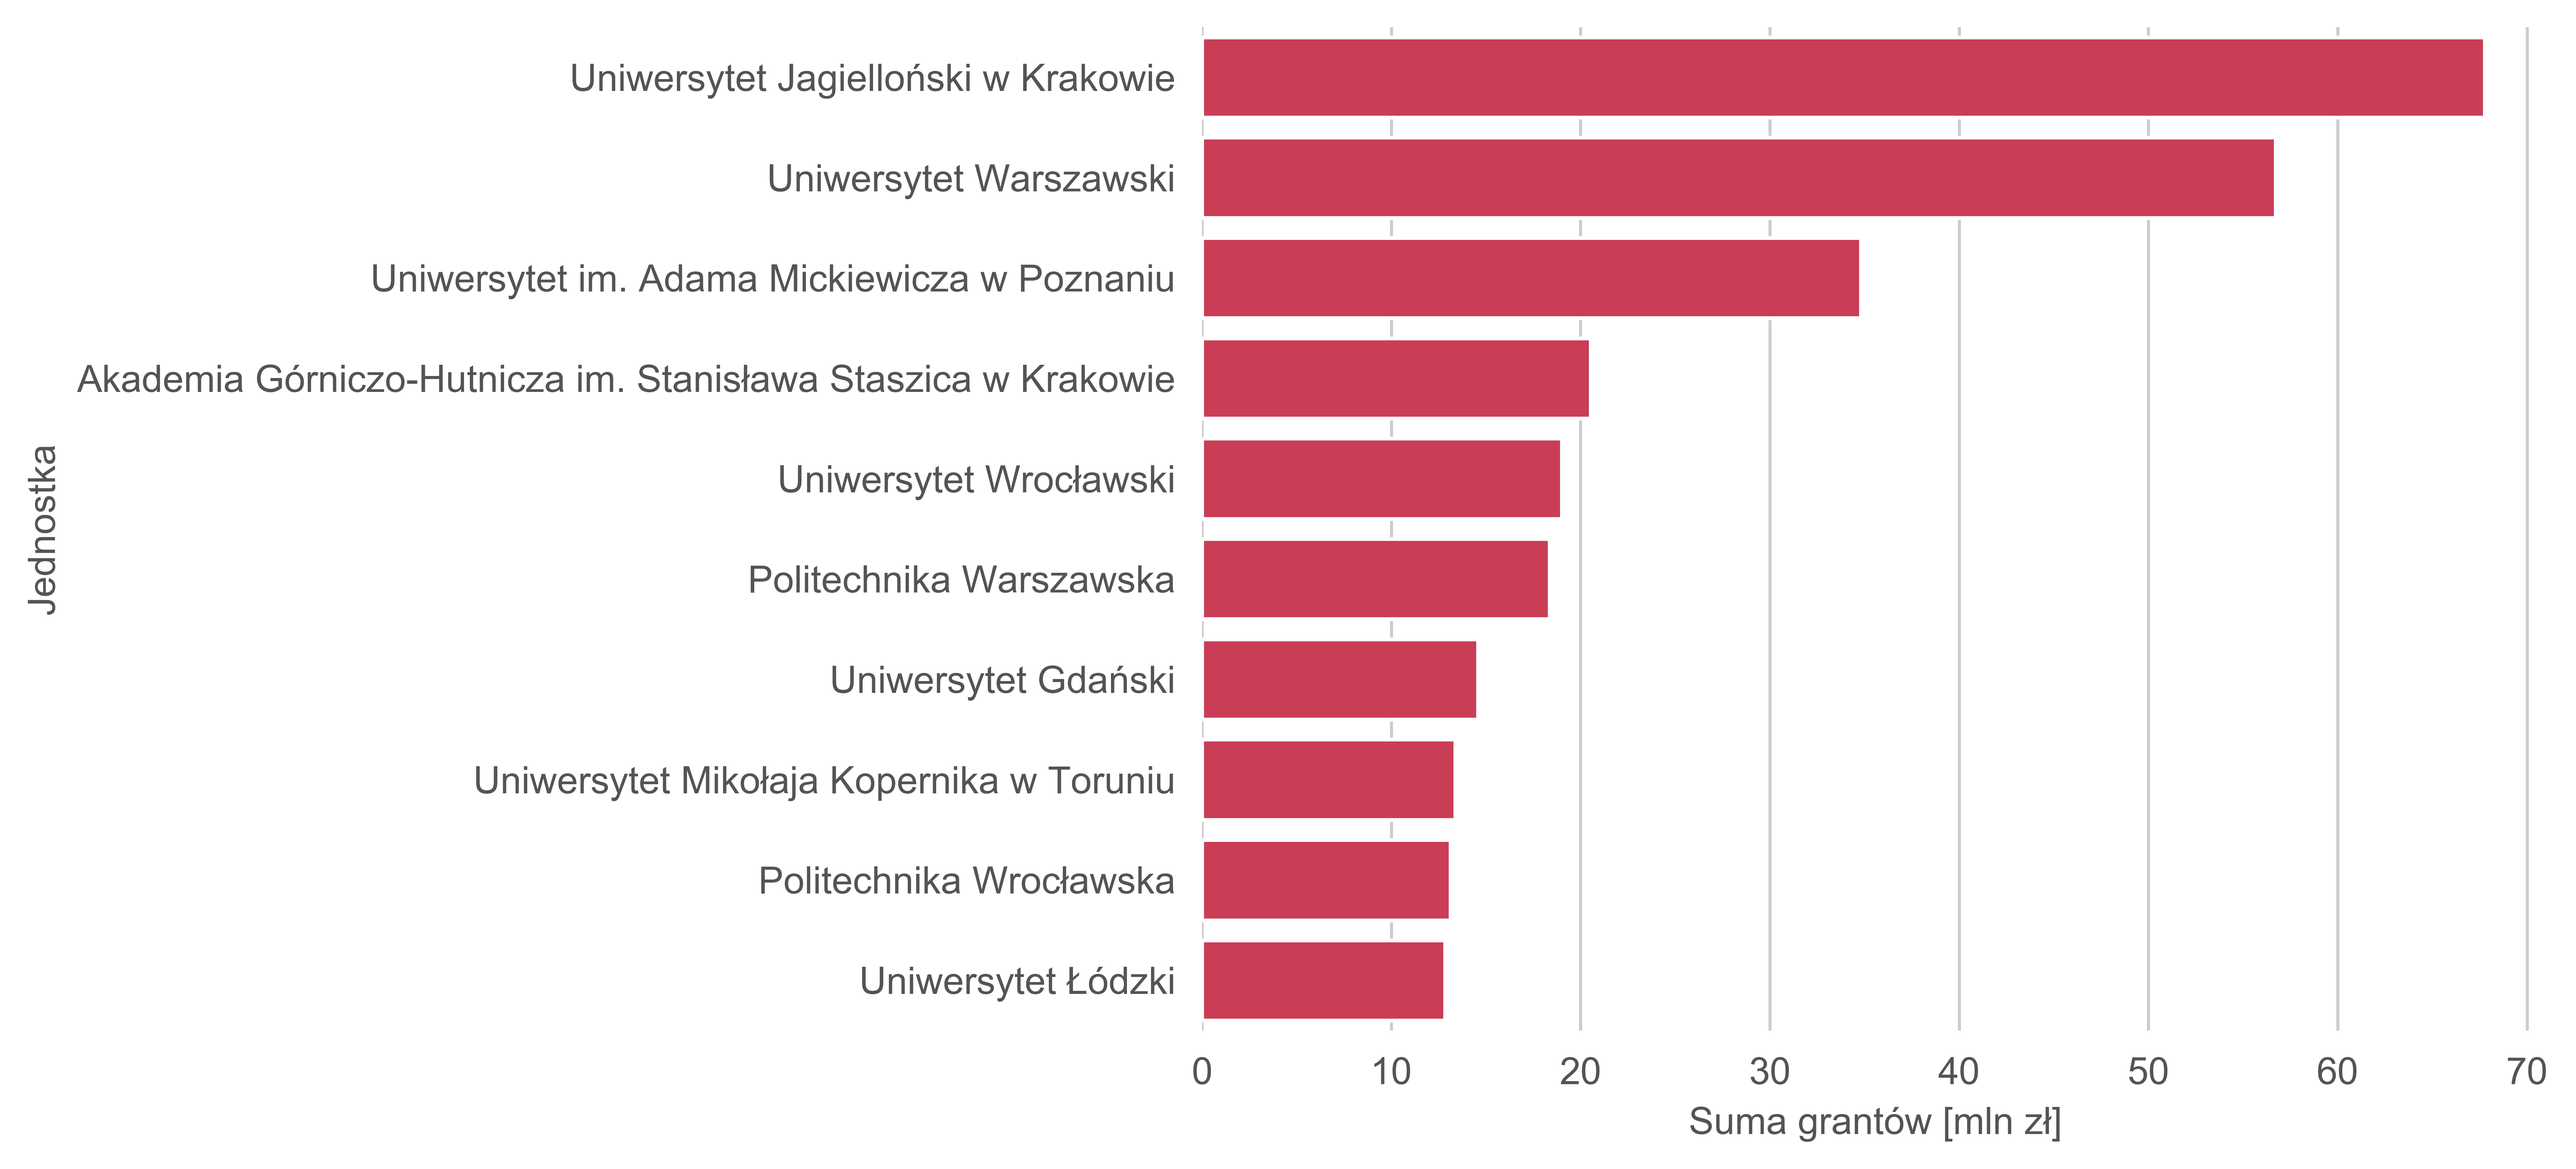
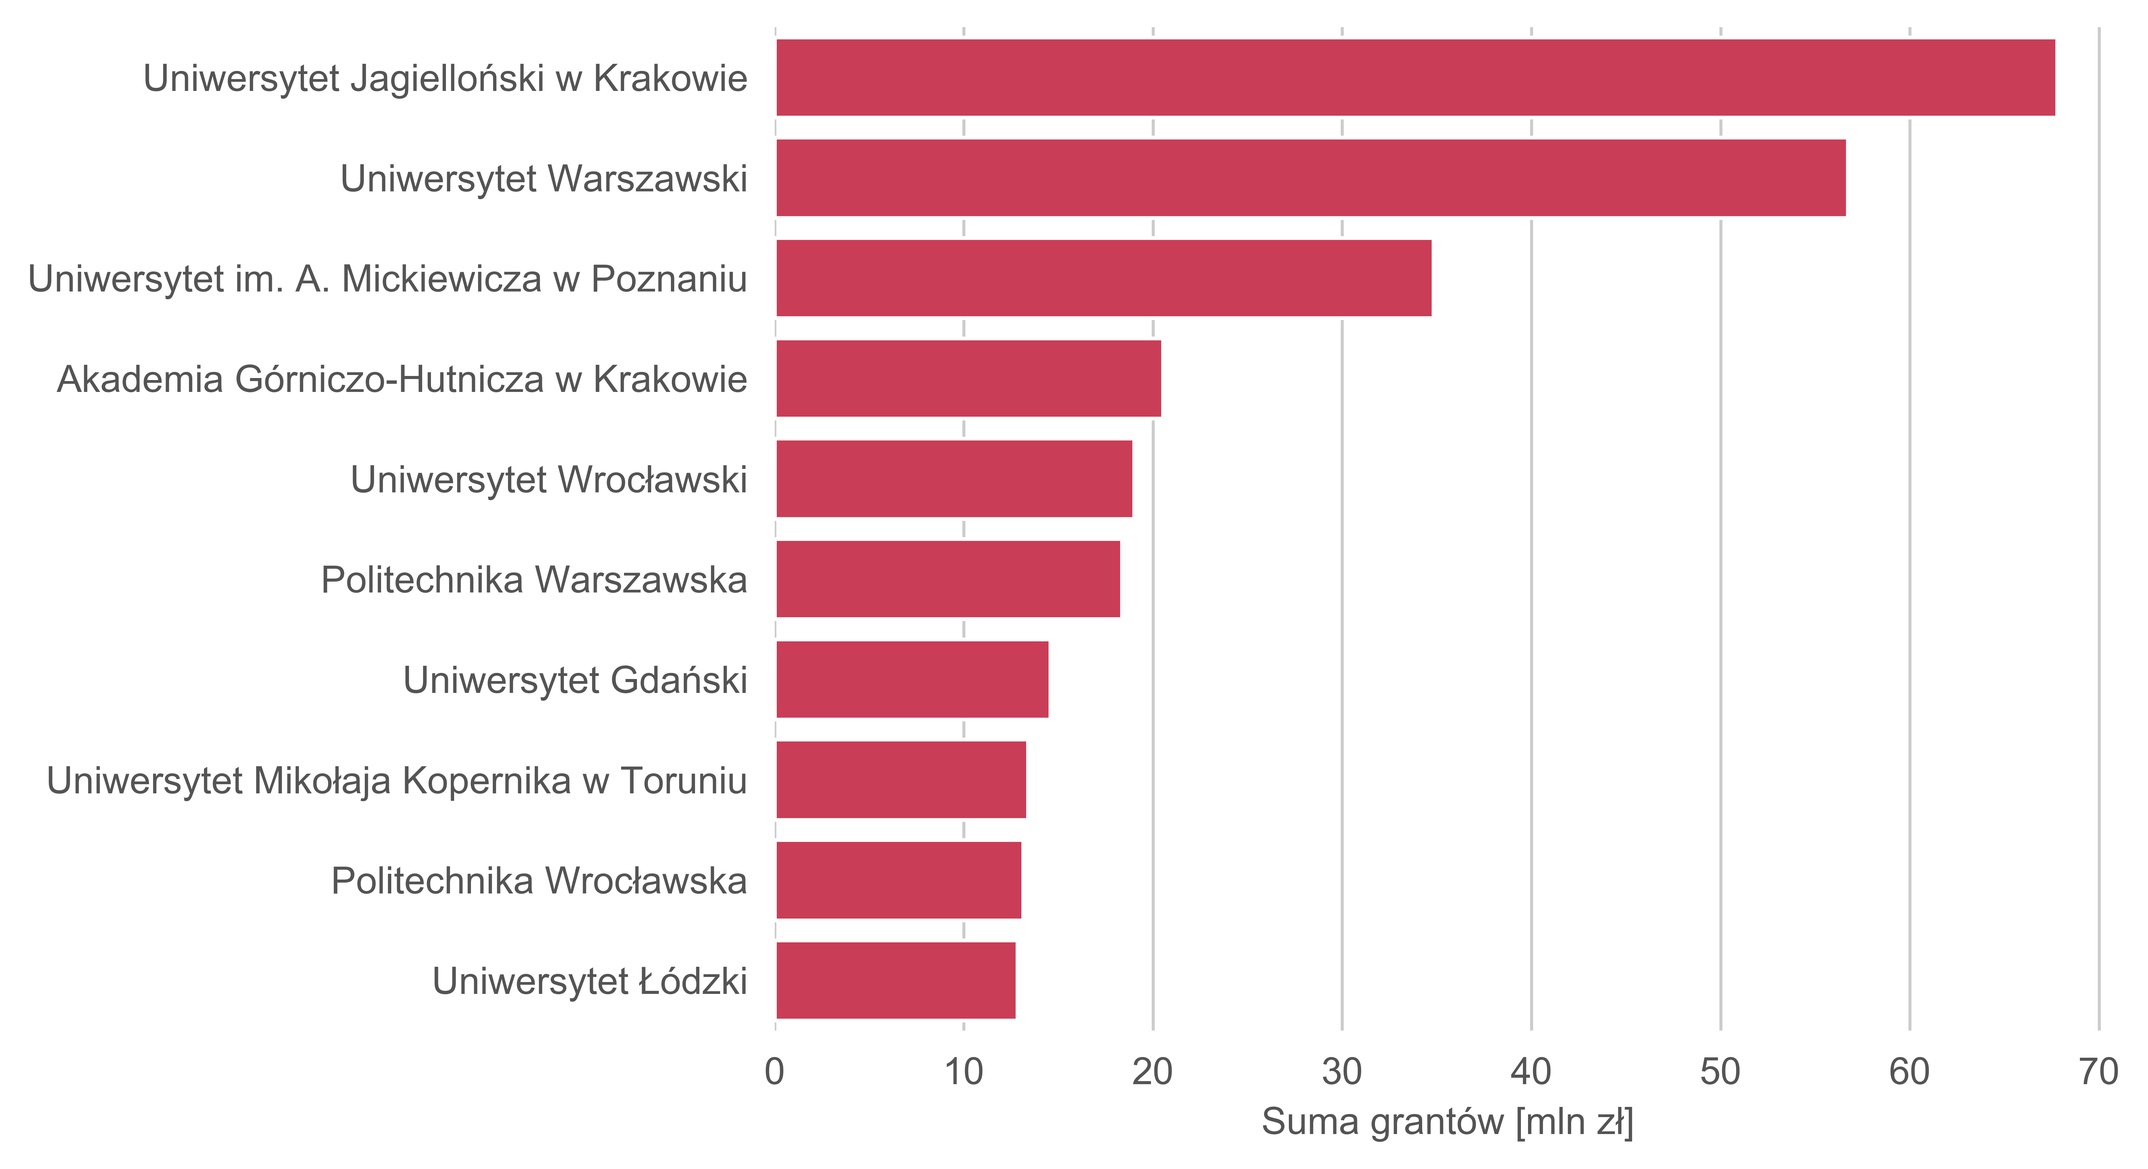
change layout

diff --git a/cash_amount_per_university/chart.py b/cash_amount_per_university/chart.py
@@ -16,15 +16,20 @@ sums = df \
     .reset_index()
 
 sums['budget'] = sums['budget'].div(1000000)
+
+sums = sums \
+    .replace("Akademia Górniczo-Hutnicza im. Stanisława Staszica w Krakowie", value="Akademia Górniczo-Hutnicza w Krakowie") \
+    .replace("Uniwersytet im. Adama Mickiewicza w Poznaniu", value="Uniwersytet im. A. Mickiewicza w Poznaniu")
+
 sns.set_style("whitegrid")
 sns.barplot(x='budget', y='correct_name', data=sums, color='#e12647')
-plt.ylabel('Jednostka')
 plt.xlabel('Suma grantów [mln zł]')
 
 # title = 'Jednostki o najwyższej sumie przydzielonych grantów'
 # plt.setp(title, color='#545454')
 
 ax = plt.gca()
+ax.yaxis.label.set_visible(False)
 ax.spines['bottom'].set_visible(False)
 ax.spines['left'].set_visible(False)
 ax.spines['top'].set_visible(False)
